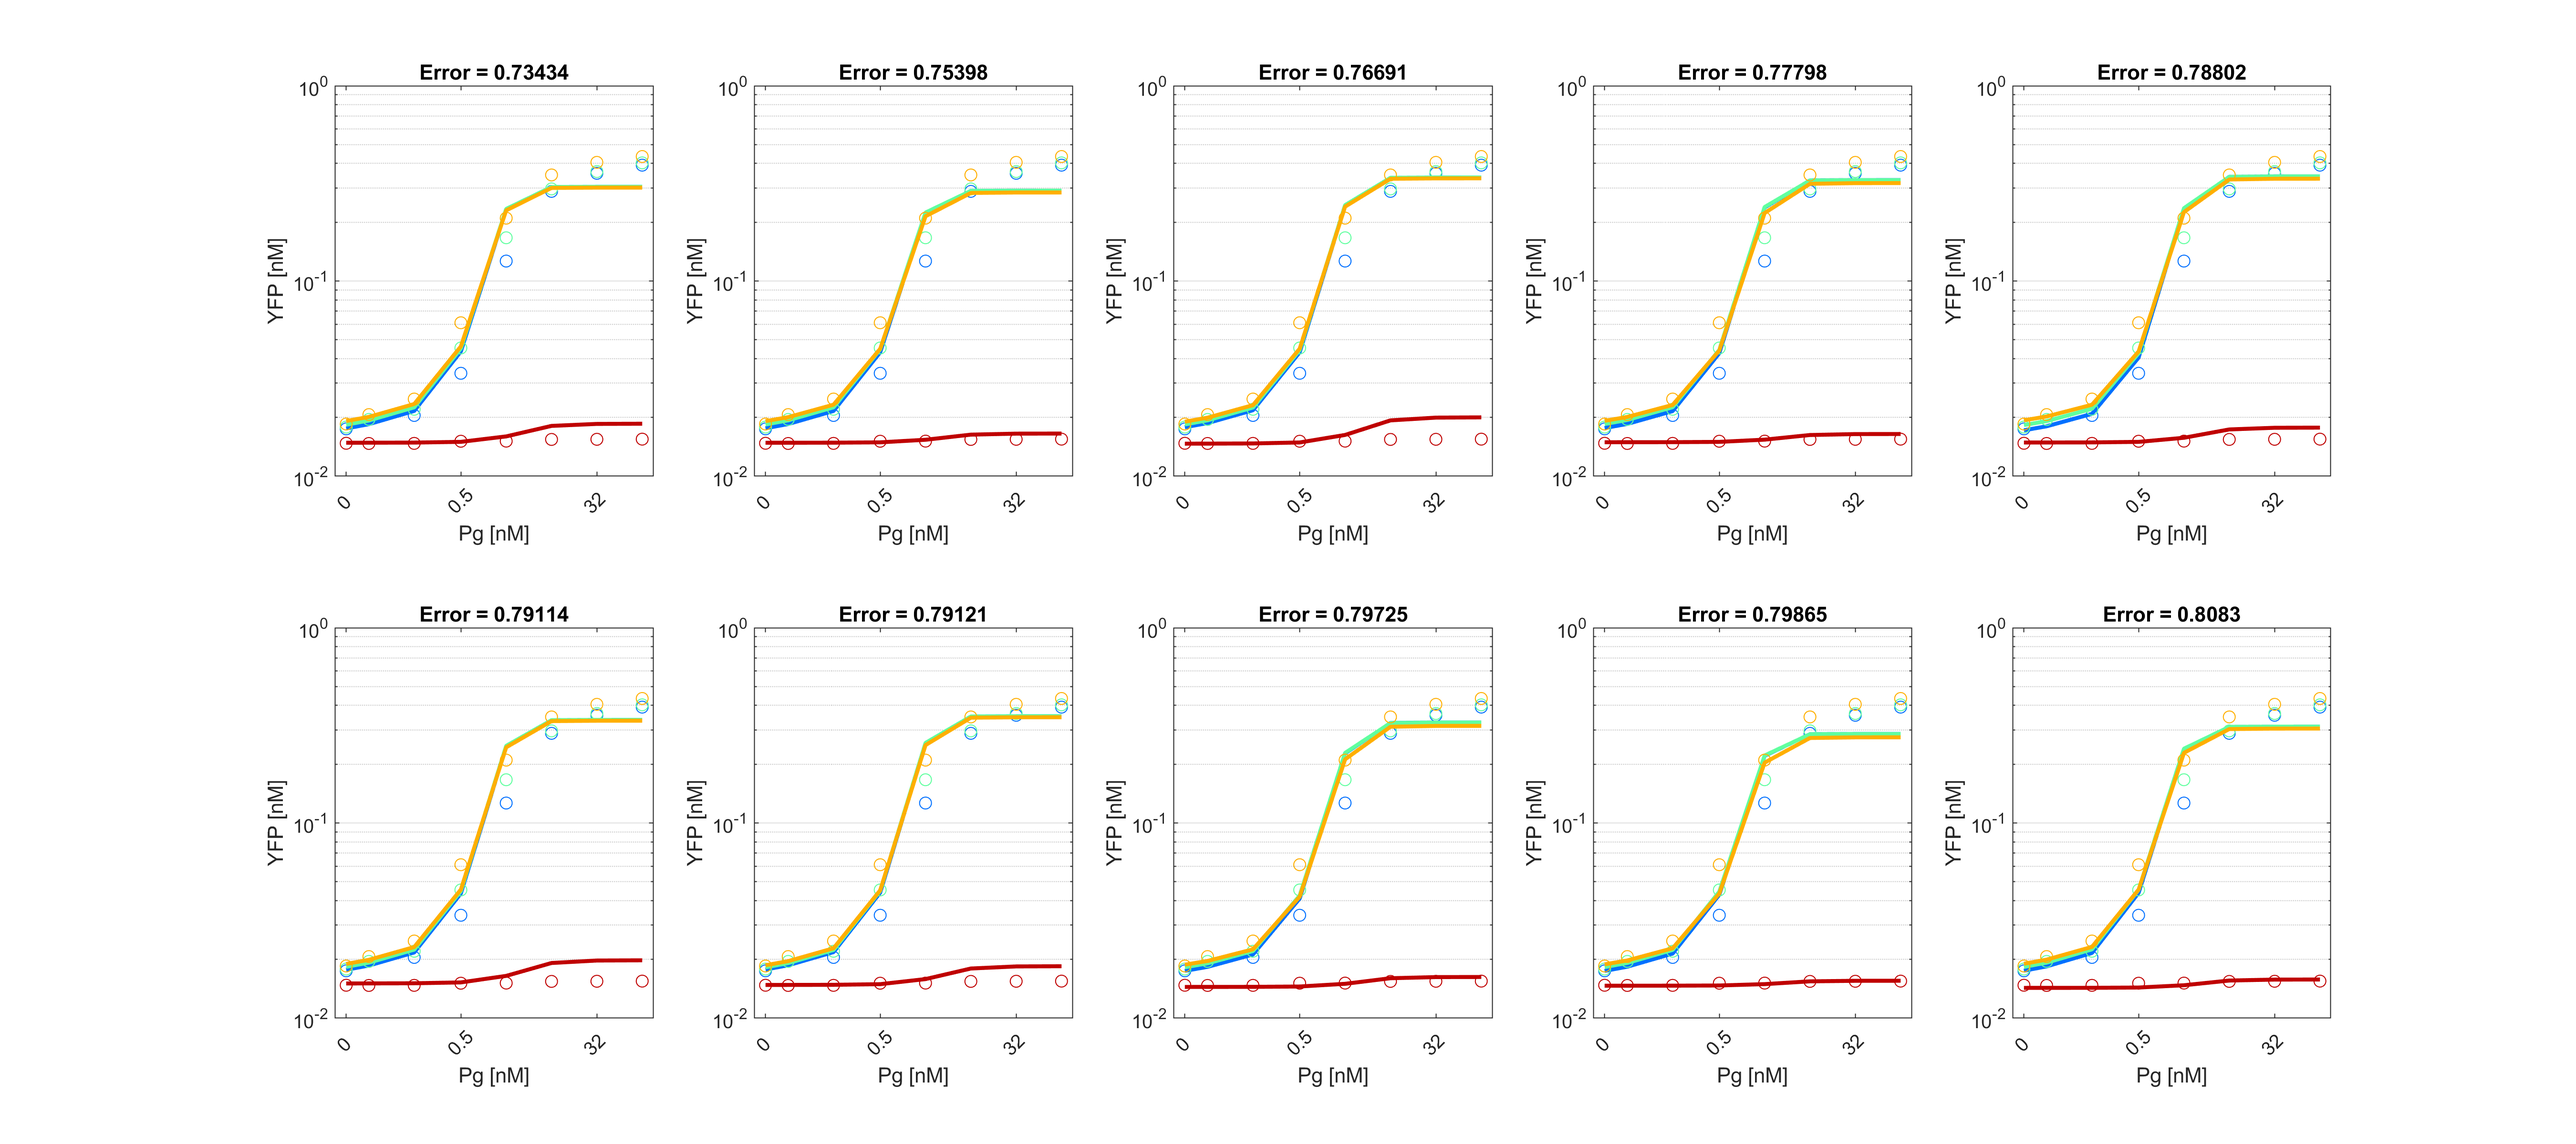
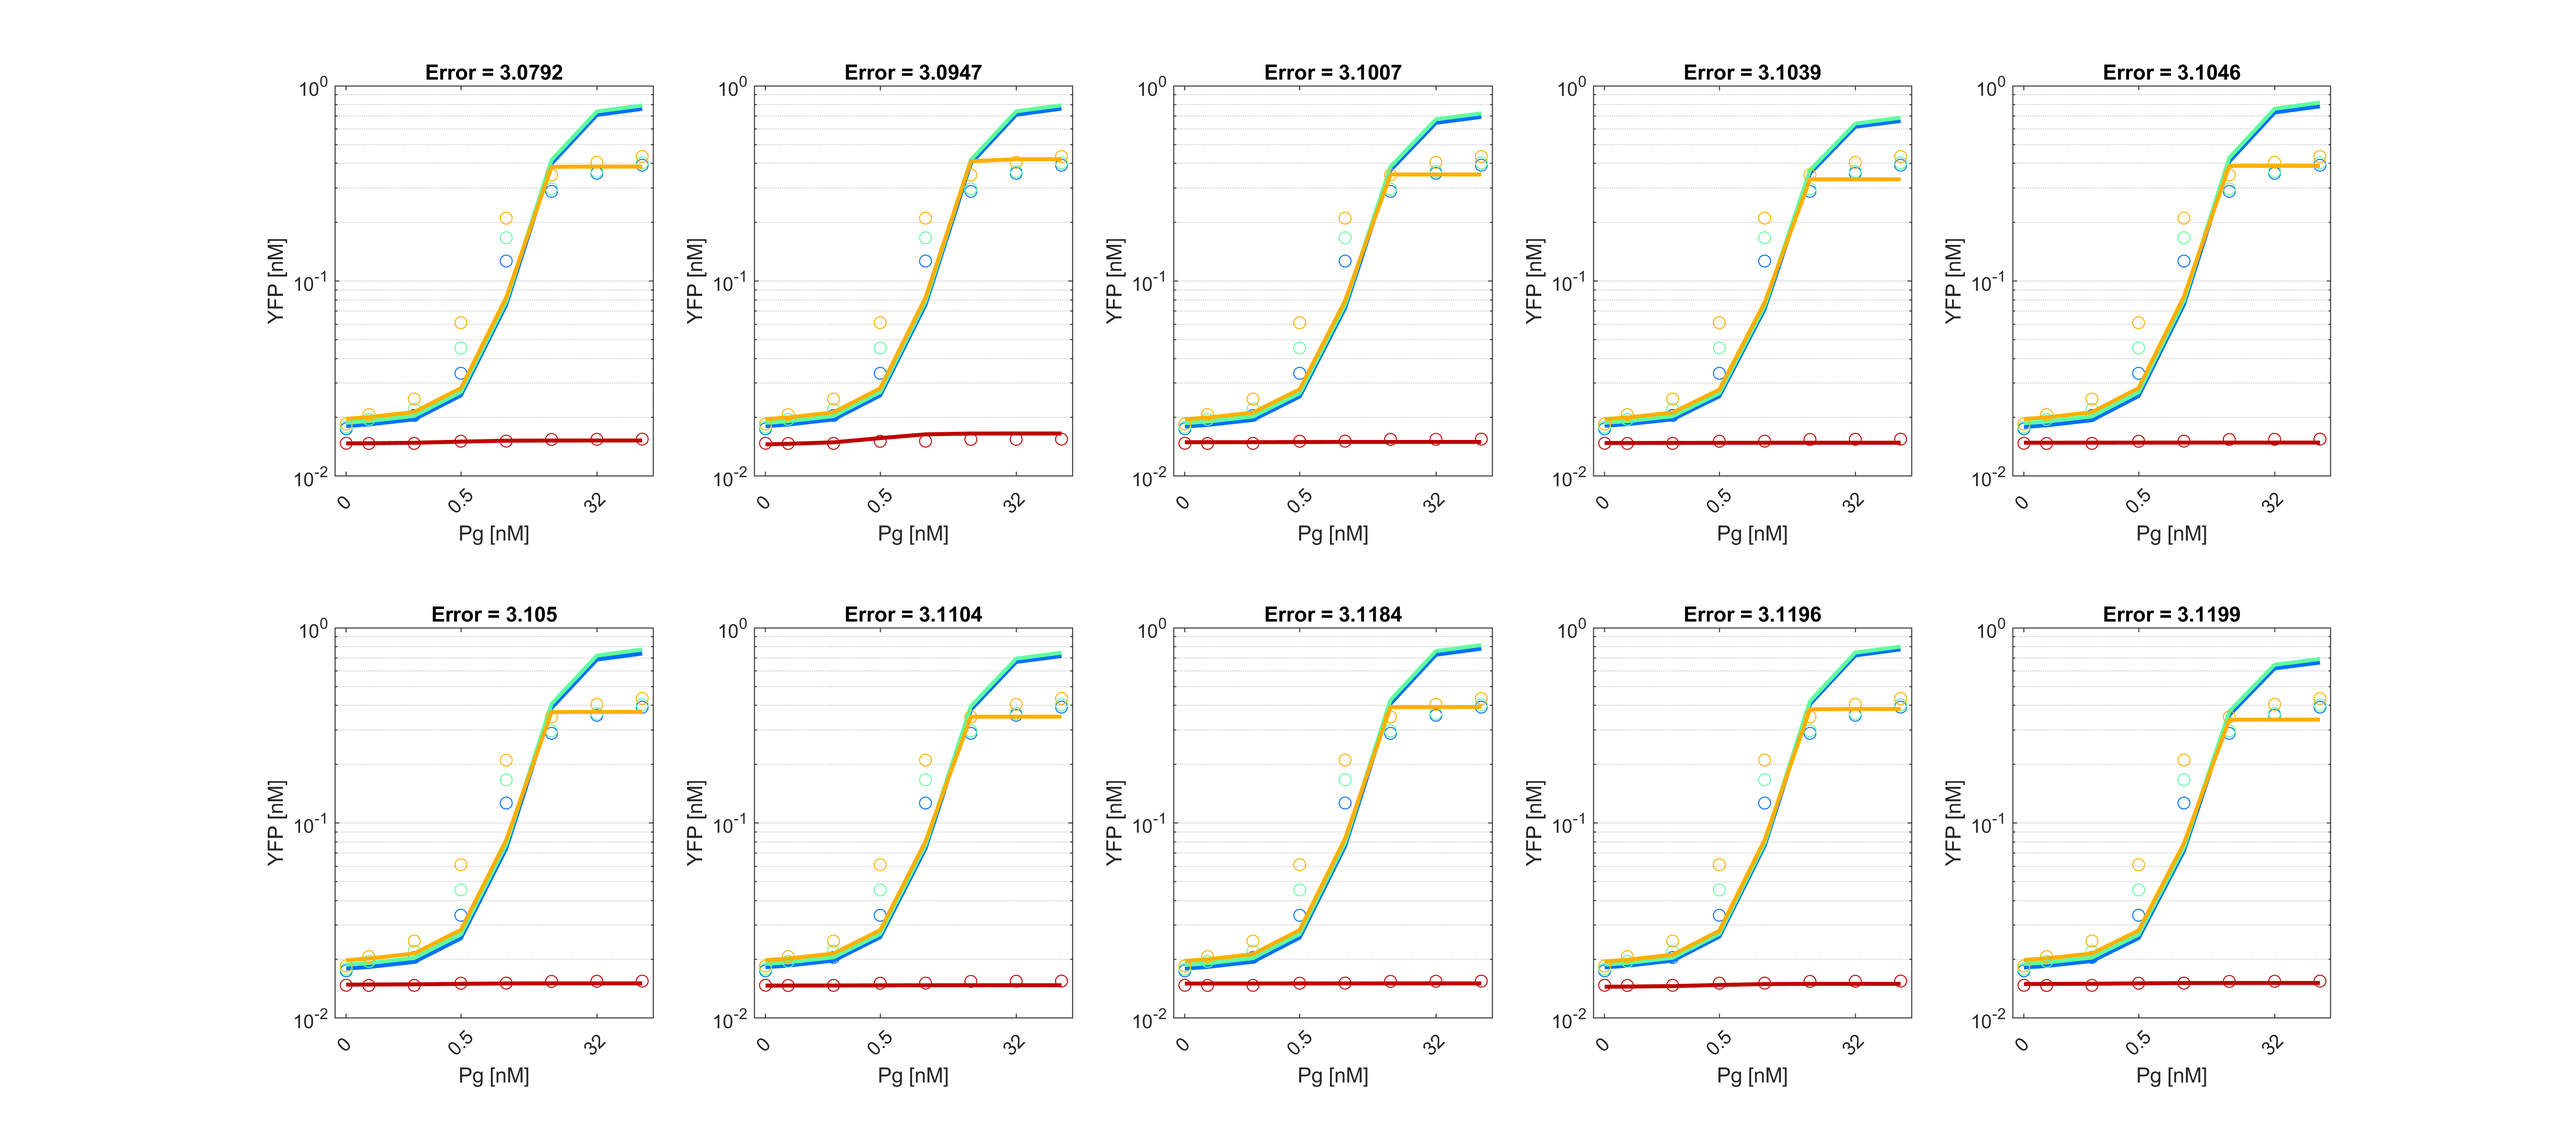
Tenth fitting attempt
Forcing eP > eM

diff --git a/RUN_FitMRW.m b/RUN_FitMRW.m
@@ -44,7 +44,7 @@ printAll = 0;   % Flag for printing full random walk
     p.nM = 0.4;         % Assume the measured fluorescence arbitrary units ([a.u.]) are proportional to the molecule concentration ([nM]), with 1 a.u. = 0.4 nM.
     
     p.eP = 1;           % [1/(nM min)]
-    p.eM = 1;           % [1/min]
+    p.eM = 0.01;        % [1/min]
     
     p.Y_m = 0.1;        % [nM/min]
     p.Y_a  = 0.01;
